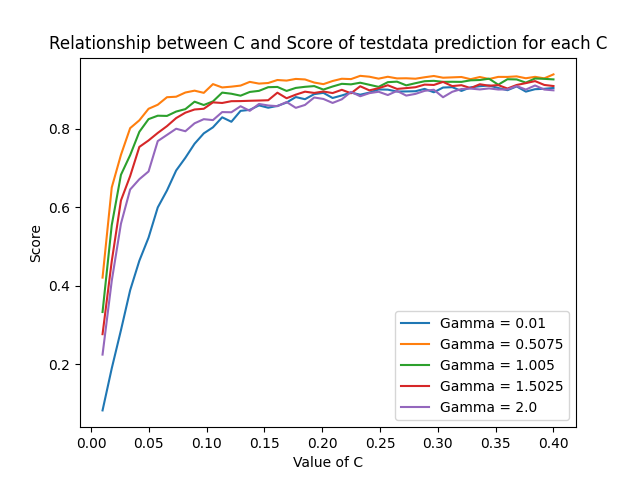
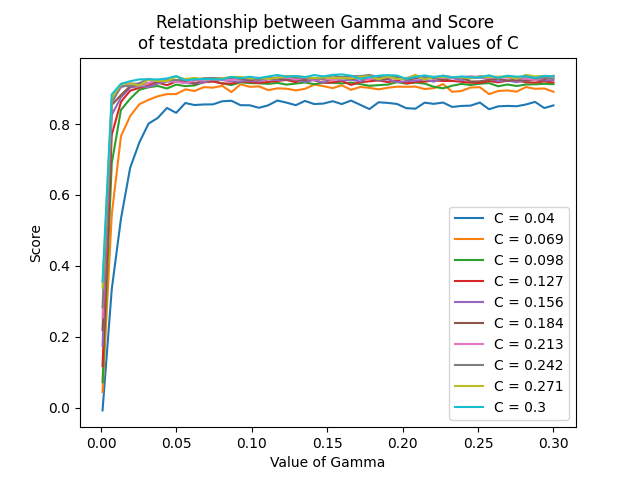
....

diff --git a/08_SVM/bonus8.py b/08_SVM/bonus8.py
@@ -97,17 +97,17 @@ def train_test_SVM(
 
 
 
-X, t = load_regression_diabetes()
-#X, t = load_regression_iris()
+#X, t = load_regression_diabetes()
+X, t = load_regression_iris()
 
 (d_train, t_train), (d_test, t_test) = split_train_test(X, t, train_ratio=0.7)
 iter=0
 
 
-for g in np.linspace(0.01, 2, num=5):
+for c in np.linspace(0.04, 0.3, num=10):
 
     res=[]
-    for c in np.linspace(0.01, 0.4, num=50):
+    for g in np.linspace(0.001, 0.3, num=50):
 
         msqrs, times = [], []
         for n in range(20):    
@@ -122,17 +122,17 @@ for g in np.linspace(0.01, 2, num=5):
         res.append([mean(msqrs), mean(times), c, g])
         iter=iter+1
     res=np.array(res)
-    plt.plot(res[:,2],res[:,0], label='Gamma = {}'.format(g))
+    plt.plot(res[:,3],res[:,0], label='C = {}'.format(round(c, 3)))
 
 res=np.array(res)
 
 #plt.clf()
-plt.title('Relationship between C and Score of testdata prediction for each C')
+plt.title('Relationship between Gamma and Score \nof testdata prediction for different values of C')
 #plt.plot(res[:,2],res[:,0])
-plt.xlabel("Value of C")
+plt.xlabel("Value of Gamma")
 plt.ylabel("Score")
 plt.legend(loc='lower right')
 
-plt.savefig("./08_SVM/bonus_2.png")
+plt.savefig("./08_SVM/bonus_1.png")
 plt.show()
 
